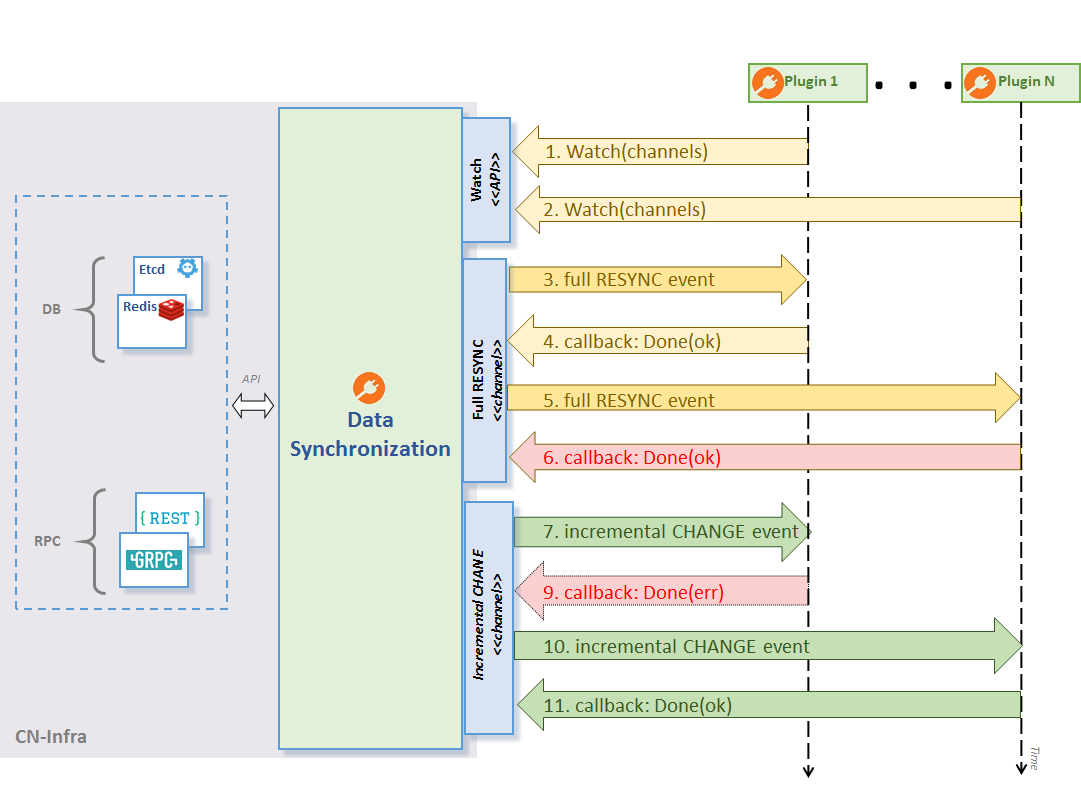
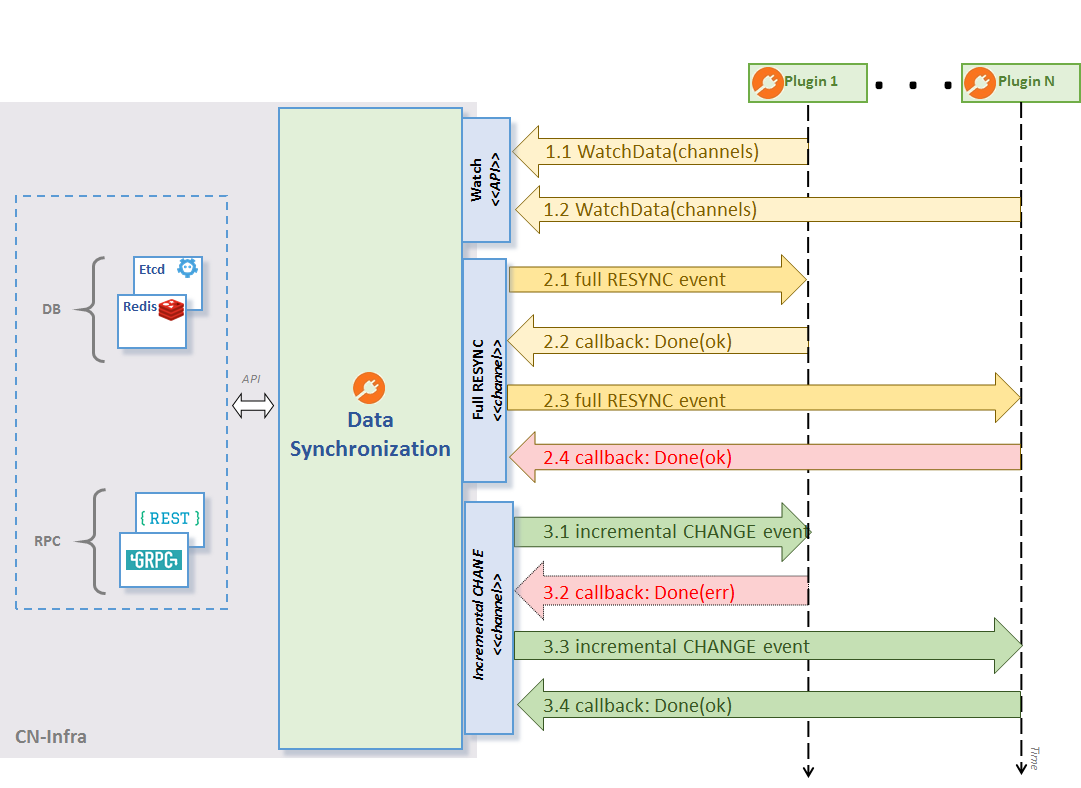
ODPM-361 Editorial changes of "datasync" package (small fixes)

diff --git a/datasync/README.md b/datasync/README.md
@@ -22,48 +22,29 @@ Watch data API is used by app plugin (see following diagram) to:
 1. Subscribe channels for particular data changes `WatchData()` 
 while being abstracted from a particular message source (data store, message bus or RPC)
 2. Process Full data RESYC (startup, for certain fault recovery) event reprocess whole data set.
-3. Feedback is given to the user of this API (e.g. successful configuration or an error) by callback.
-4. Process Incremental data CHANGE. It is Optimized mode that 
+   Feedback is given to the user of this API (e.g. successful configuration or an error) by callback.
+3. Process Incremental data CHANGE. It is Optimized mode that 
    works only with minimal set of changes (deltas).
-5. Feedback is again given to the user of this API (e.g. successful configuration or an error) by callback.
+   Feedback is again given to the user of this API (e.g. successful configuration or an error) by callback.
 
 ![datasync](../docs/imgs/datasync_watch.png)
 
 This APIs defines two types of events that a plugin must be able to process:
 1. Full Data RESYNC (resynchronization) event is defined to trigger
    resynchronization of the whole configuration. This event is used
-   after agent start/restart, or when agent's connectivity to an
- external data source/sink is lost and restored.
-2. Incremental Data CHANGRE event is defined to trigger incremental processing of
+   after agent start/restart, or for fault recovery (when agent's connectivity to an
+   external data source is lost and restored).
+2. Incremental Data CHANGE event is defined to trigger incremental processing of
    configuration changes. Data changes events are sent after the data
    resync has completed. Each data change event contains both the
    previous and the new/current values for the data. The Data synchronization 
    is switched to optimized mode after successful FULL data RESYNC. 
 
-
-Full data RESYNC is needed during startup or fault recovery. 
-
 See the [example](examples/simple_watch)
 
-### Full data RESYC
-In a fault-tolerant solution, there is a need to recover from faults. This plugin helps to solve the
-data resynchronization (data RESYNC) aspect of fault recovery.
-When the Agent loses connectivity (to etcd, Kafka, VPP etc.), it needs to recover from that fault:
-1. When connectivity is reestablished after a failure, the agent can resynchronize (configuration) from a northbound 
-   client with southbound configuration (VPP etc.).
-2. Alternative behavior: Sometimes it is easier to use "brute force" and restart the container (both VPP and the agent) 
-   and skip the resynchronization. This restart is supposed to be done by control plane & orchestration
-   layer. The Agent is supposed to just publish the event.
-
-TODO To report a fault/error occurred and notify the datasync plugin there is defined following API call.
-
-### Incremental data CHANGE
-In this optimized mode, we do not need to reprocess the whole (configuration) data but rather process just the delta
-(only the changed object in current value of go channel event).
- 
 ## Publish data API
 
 Publish data API is used by app plugins to asynchronously publish events 
 with particular data changes values and still abstract from data store, message bus, local/RPC client.
 
-![datasync](../docs/imgs/datasync_publish.png)
+![datasync publish](../docs/imgs/datasync_pub.png)
